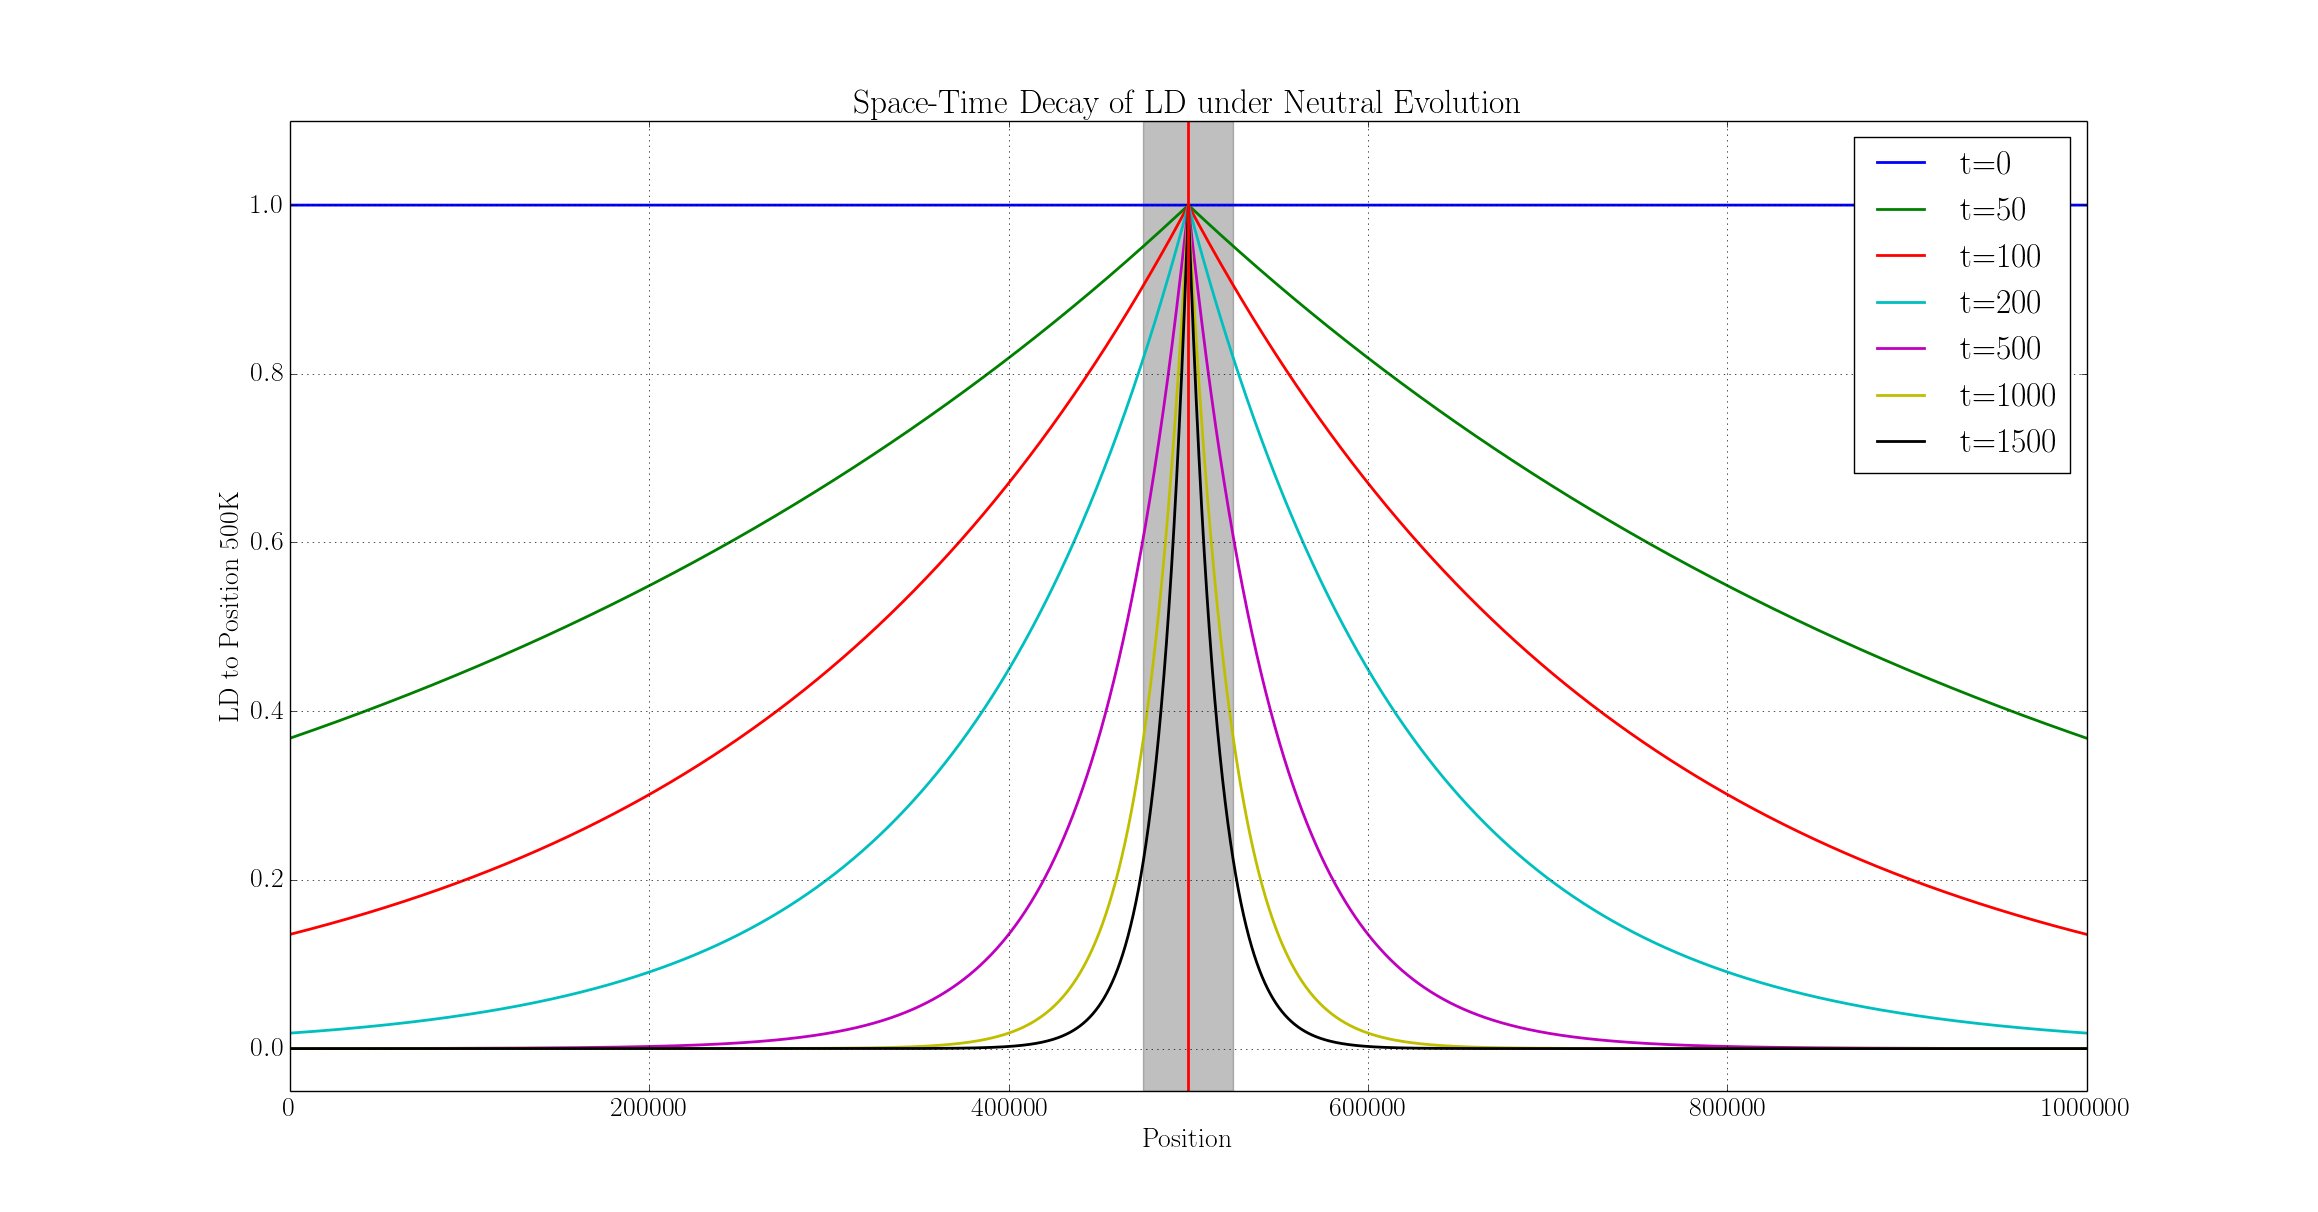
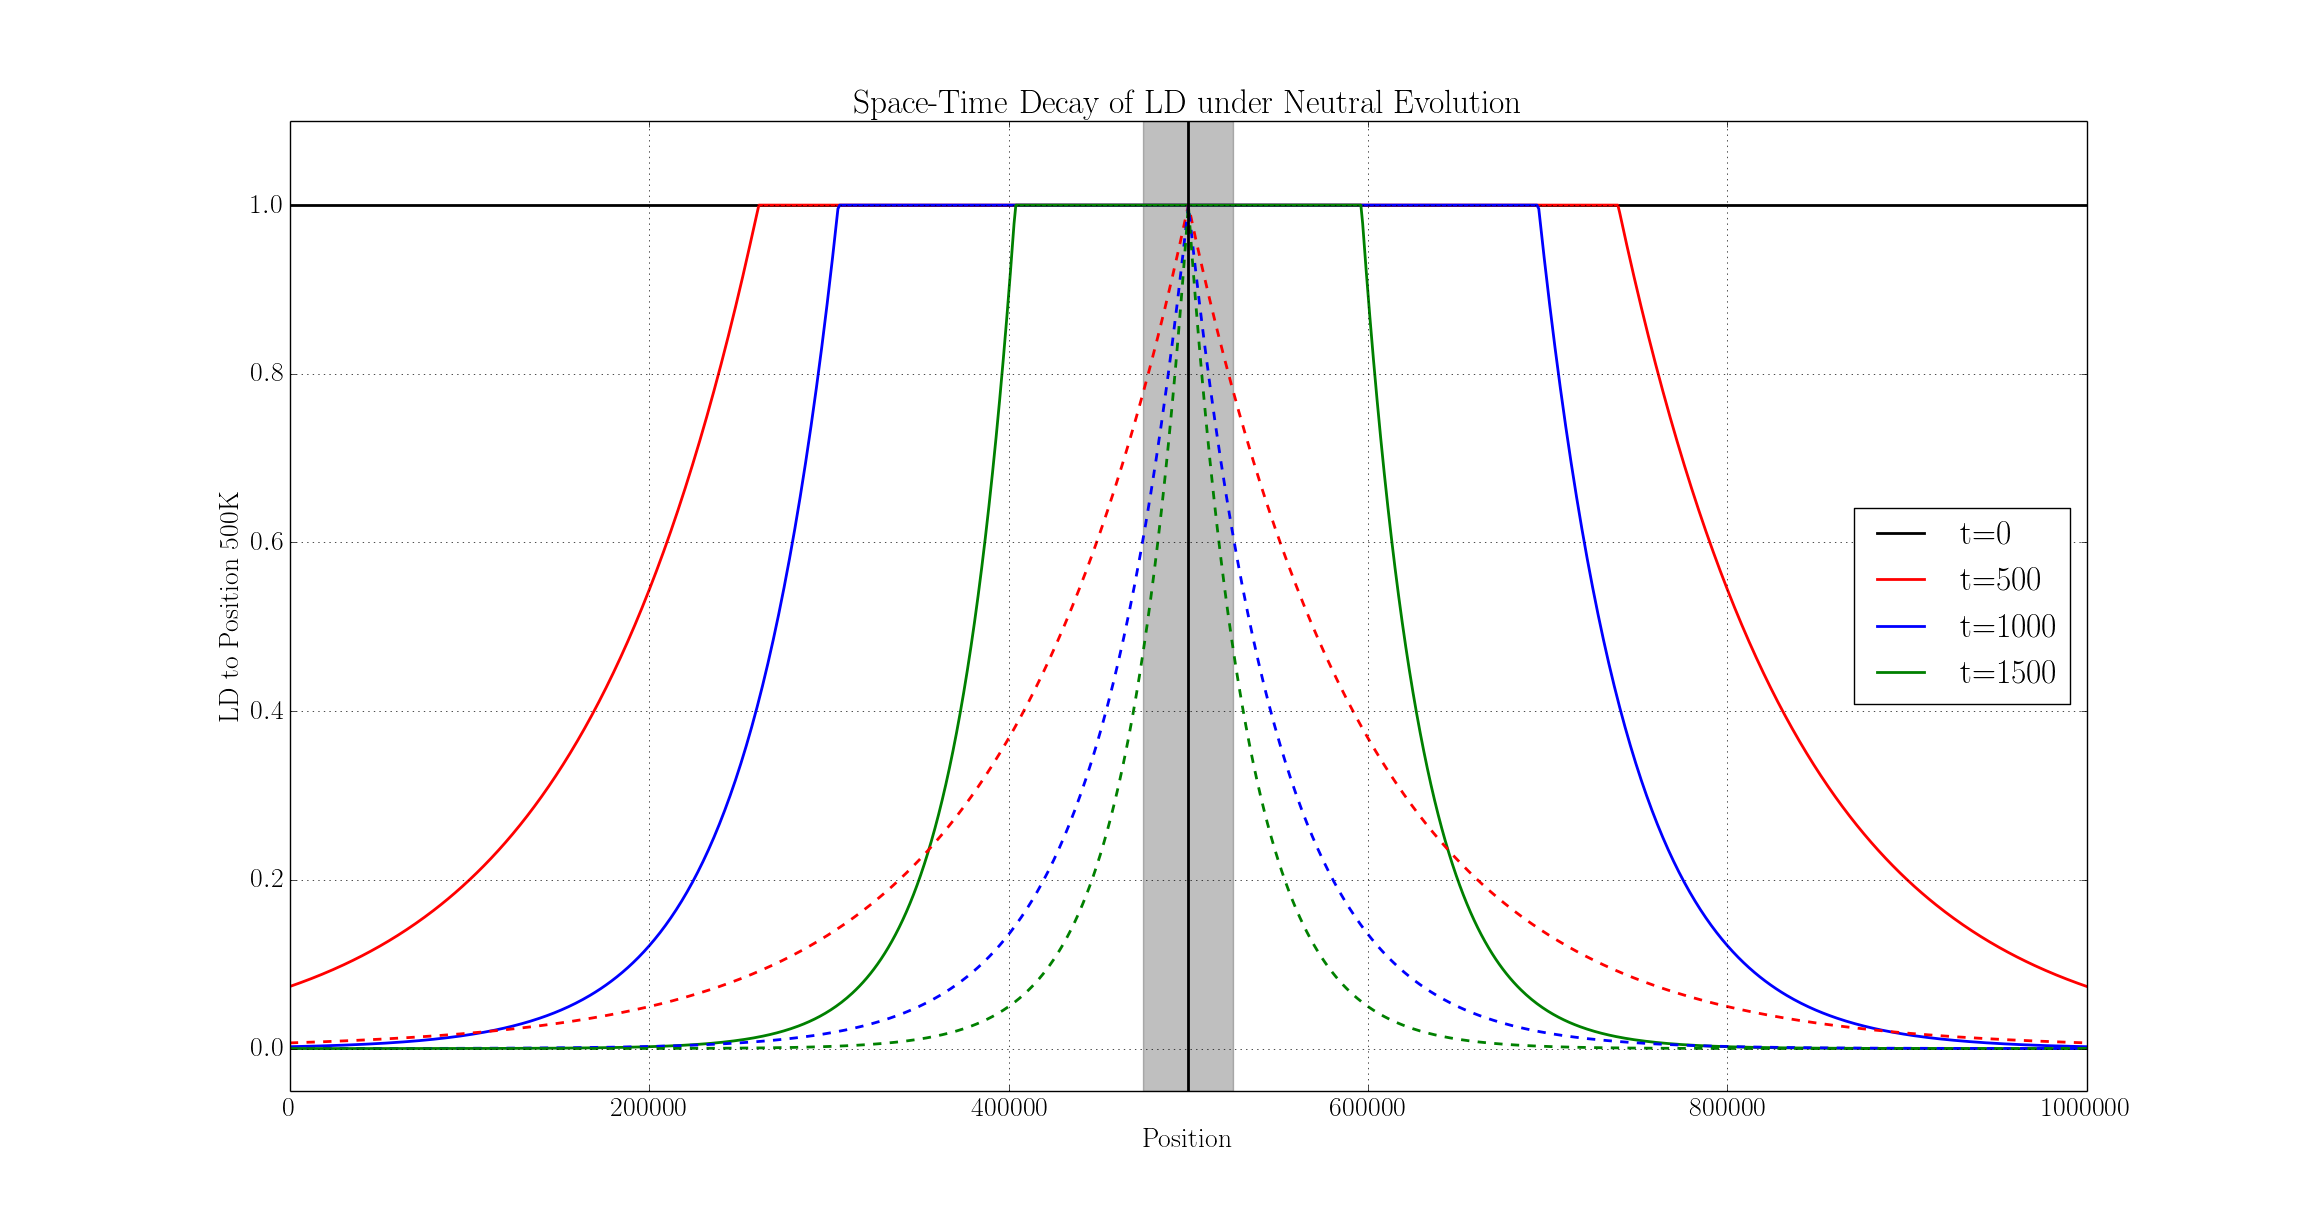
LD Decay

diff --git a/main.tex b/main.tex
@@ -277,7 +277,7 @@ site.
 
 \paragraph{Allele Frequency Spectrum} AFS is the histogram of allele 
 frequencies in a fixed window, which depends on allele frequencies of all sites. 
-Whele Evans et al. \cite{evans2007non} developed diffusion equations for 
+While Evans et al. \cite{evans2007non} developed diffusion equations for 
 evolution of AFS, they are difficult to solve. However, here instead of analyzing 
 the whole distribution of AFS, we \emph{sclarize} the distribution and study the 
 behavior of it. Scalarization can be done by a weighted linear cobmination of the 
@@ -306,8 +306,14 @@ and SFSelect tests.
 	which is a good approximation only in strong selection, Figures 
 	\ref{fig:dynamic-weak} and \ref{fig:dynamic-strong} (second
 	row, left).
-	\item {\bf SFSelect}
-\end{enumerate}
+	\item {\bf SFSelect} is also another test statistic proposed by Ronen et 
+	al. \cite{ronen2013learning} to predict selection by empirically learning 
+	the so-called \emph{optimal} weights using Support Vector Machines. 
+	Figure \ref{fig:dynamic-weak} and \ref{fig:dynamic-strong} (forth
+	row), depicts the dynamics of SFSelect for selection and neutral evolution 
+	in time which differentiates better than D and H statistics only in the 
+	hard sweep scenario.
+{enumerate}
 \begin{figure}
 	\centering 
 	\includegraphics[trim={2in 0.5in 2in 
@@ -324,10 +330,21 @@ and SFSelect tests.
 	 \label{fig:dynamic-weak}
 \end{figure}
 \paragraph{Linkage Disequilibrium}
+
+forces of LD
+
 \begin{figure}
 	\centering
-	\includegraphics[width=\textwidth]{spaceTimeLD}
+	\includegraphics[width=\textwidth]{LDDecay2d}
 \end{figure}
+
+
+\begin{figure}
+	\centering
+	\includegraphics[width=\textwidth]{LDDecay3dNeutral}
+	\includegraphics[width=\textwidth]{LDDecay3dSweep}
+\end{figure}
+
 
 \paragraph{Challenges}
 \begin{itemize}
